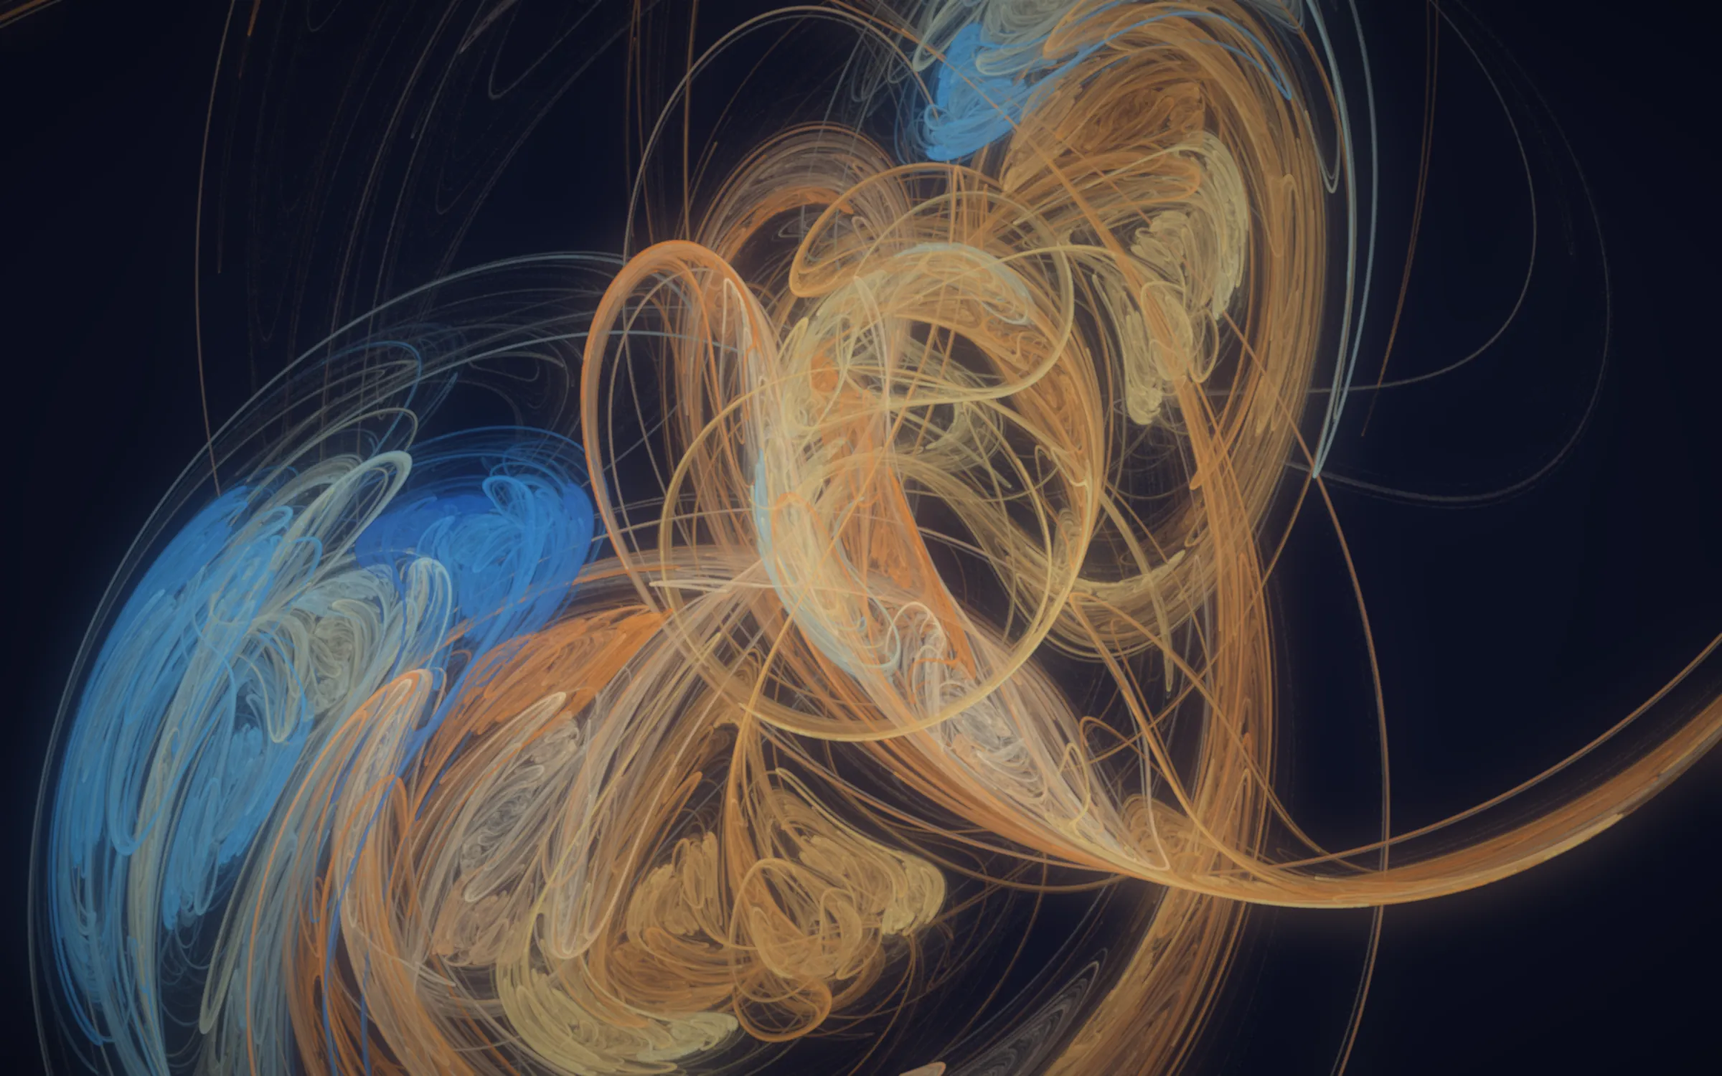
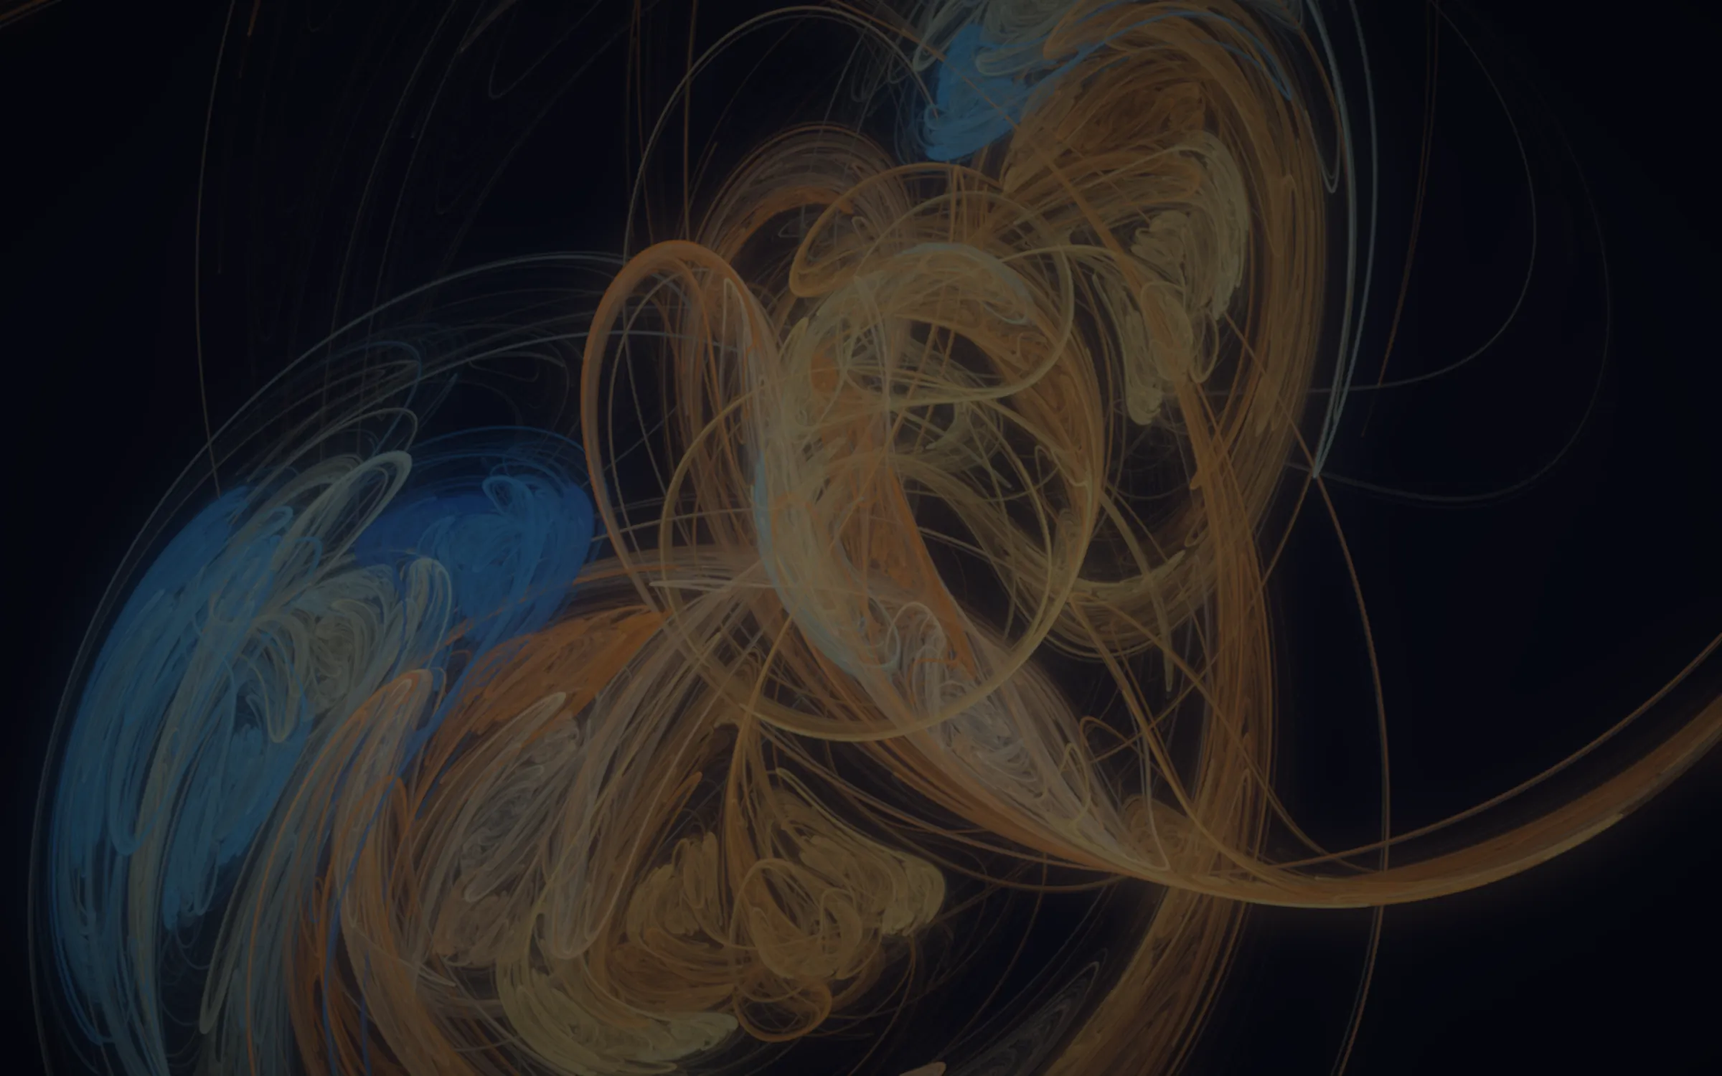
Random, moving fractal-flame backgrounds on the landing page
Each visit now gets one of the three fractal-flame backgrounds at random
(picked on the server, so there's no flash of another), set in motion:
the flame slowly drifts, turning and zooming a little; a blurred glow
copy turns the other way and pulses, screen-blended so the veils seem to
shimmer; and twinkling motes in the flame's colours orbit the middle
(flame-motes.tsx, a small canvas). All of it holds still under
prefers-reduced-motion. The dimming is baked into the images rather
than done with a CSS filter on a moving layer.

?bg=veil|ember|vortex picks one; ?bg=golden shows the golden-hour sky.

Claude-Session: https://claude.ai/code/session_01HnMuoqqgMQ5BoHpMVWgNZQ

diff --git a/src/app/page.tsx b/src/app/page.tsx
@@ -3,6 +3,7 @@ import { createClient } from "@/lib/supabase/server";
 import { AppButtons } from "./app-links";
 import { buildExampleShowcase } from "./example-flights";
 import { EngineCanvas } from "./engine-canvas";
+import { FlameMotes } from "./flame-motes";
 import { LandingShowcase } from "./landing-showcase";
 import styles from "./home.module.css";
 
@@ -24,24 +25,34 @@ const features = [
   },
 ];
 
-// Fractal-flame alternatives to the golden-hour sky, for previewing (see
-// .flameVeil and co. in home.module.css).
-const FLAME_BACKGROUNDS = {
-  veil: styles.flameVeil,
-  ember: styles.flameEmber,
-  vortex: styles.flameVortex,
+// The page's backgrounds: pre-rendered fractal flames (public/sky/flame-*),
+// one picked at random for each visit, set in motion by the classes and
+// motes below; or the golden-hour sky. ?bg=<name> picks one.
+const FLAMES = {
+  veil: { className: styles.flameVeil, motes: ["255,150,200", "150,190,255", "190,255,150"] },
+  ember: { className: styles.flameEmber, motes: ["255,190,110", "255,140,60", "120,190,255"] },
+  vortex: { className: styles.flameVortex, motes: ["110,240,210", "130,160,255", "150,255,170"] },
 };
+type FlameName = keyof typeof FLAMES;
+const FLAME_NAMES = Object.keys(FLAMES) as FlameName[];
+
+// A different flame on each visit: this page renders per request (it reads
+// the visitor's session), on the server, so the pick is made once per
+// page view and the browser gets the same one it was rendered with.
+function randomFlame(): FlameName {
+  return FLAME_NAMES[Math.floor(Math.random() * FLAME_NAMES.length)];
+}
 
 export default async function Home(props: PageProps<"/">) {
   // ?map=2d previews the example flights on a flat map instead of the globe.
   const { map, bg } = await props.searchParams;
   const flat = map === "2d";
-  // ?bg=veil|ember|vortex previews a fractal-flame background in place of
-  // the golden-hour sky.
-  const flameBackground =
-    typeof bg === "string" && Object.hasOwn(FLAME_BACKGROUNDS, bg)
-      ? FLAME_BACKGROUNDS[bg as keyof typeof FLAME_BACKGROUNDS]
-      : "";
+  const flame: FlameName | null =
+    bg === "golden"
+      ? null
+      : typeof bg === "string" && Object.hasOwn(FLAMES, bg)
+        ? (bg as FlameName)
+        : randomFlame();
   const { airports, initial } = buildExampleShowcase();
   const supabase = await createClient();
   const {
@@ -50,12 +61,25 @@ export default async function Home(props: PageProps<"/">) {
 
   return (
     <div
-      className={`${styles.page} ${styles.landing} ${flameBackground} flex flex-1 flex-col font-sans`}
+      className={`${styles.page} ${styles.landing} ${flame ? FLAMES[flame].className : ""} flex flex-1 flex-col font-sans`}
     >
-      {/* The golden-hour sky behind the whole page, and its light shafts
-          (pre-rendered; see .sky in home.module.css). */}
-      <div className={styles.sky} aria-hidden="true" />
-      <div className={styles.skyRays} aria-hidden="true" />
+      {flame ? (
+        // A fractal flame behind the whole page: the image slowly drifting,
+        // a soft glow copy of it turning the other way and pulsing, and
+        // twinkling motes orbiting its middle (see .flameSky).
+        <div className={styles.flameSky} aria-hidden="true">
+          <div className={styles.flameBase} />
+          <div className={styles.flameGlow} />
+          <FlameMotes colors={FLAMES[flame].motes} />
+        </div>
+      ) : (
+        <>
+          {/* The golden-hour sky, and its light shafts (pre-rendered; see
+              .sky in home.module.css). */}
+          <div className={styles.sky} aria-hidden="true" />
+          <div className={styles.skyRays} aria-hidden="true" />
+        </>
+      )}
       <main className={styles.hero}>
         <EngineCanvas />
 

diff --git a/src/app/flame-motes.tsx b/src/app/flame-motes.tsx
@@ -1,0 +1,97 @@
+"use client";
+
+import { useEffect, useRef } from "react";
+import styles from "./home.module.css";
+
+const MOTES = 90;
+// A full turn of the slowest orbit takes about this long, in seconds.
+const ORBIT_SECONDS = 260;
+
+// Glowing specks for the fractal-flame backgrounds: each slowly orbits the
+// middle of the page (the flame's own swirl) at its own pace and distance,
+// drifting in and out a little and twinkling, in the flame's colours.
+// Drawn additively on a canvas covering the page; paused when the tab is
+// hidden (requestAnimationFrame stops), and a single still frame under
+// prefers-reduced-motion.
+export function FlameMotes({ colors }: { colors: string[] }) {
+  const canvasRef = useRef<HTMLCanvasElement>(null);
+
+  useEffect(() => {
+    const canvas = canvasRef.current;
+    const ctx = canvas?.getContext("2d");
+    if (!canvas || !ctx) return;
+
+    let seed = 7;
+    const rnd = () => (seed = (seed * 16807) % 2147483647) / 2147483647;
+    const motes = Array.from({ length: MOTES }, () => ({
+      angle: rnd() * Math.PI * 2,
+      // Mostly out in the flame's arms, a few nearer the core.
+      dist: 0.12 + Math.pow(rnd(), 0.7) * 0.75,
+      speed: (0.4 + rnd() * 0.8) * (rnd() < 0.2 ? -1 : 1),
+      wobble: rnd() * Math.PI * 2,
+      size: 0.6 + Math.pow(rnd(), 3) * 2.4,
+      twinkle: 0.4 + rnd() * 1.2,
+      phase: rnd() * Math.PI * 2,
+      color: colors[Math.floor(rnd() * colors.length)],
+    }));
+
+    const draw = (t: number) => {
+      ctx.clearRect(0, 0, W, H);
+      ctx.globalCompositeOperation = "lighter";
+      const cx = W / 2;
+      const cy = H / 2;
+      const reach = Math.hypot(W, H) / 2;
+      for (const m of motes) {
+        const a = m.angle + (m.speed * t * Math.PI * 2) / ORBIT_SECONDS;
+        const d = reach * (m.dist + 0.03 * Math.sin(t * 0.21 + m.wobble));
+        const x = cx + Math.cos(a) * d;
+        // Squashed a little, like a swirl seen at an angle.
+        const y = cy + Math.sin(a) * d * 0.7;
+        if (x < -10 || x > W + 10 || y < -10 || y > H + 10) continue;
+        const glow = 0.25 + 0.75 * Math.pow(0.5 + 0.5 * Math.sin(t * m.twinkle + m.phase), 3);
+        const r = m.size * 4;
+        const g = ctx.createRadialGradient(x, y, 0, x, y, r);
+        g.addColorStop(0, `rgba(${m.color},${(0.9 * glow).toFixed(3)})`);
+        g.addColorStop(0.25, `rgba(${m.color},${(0.35 * glow).toFixed(3)})`);
+        g.addColorStop(1, `rgba(${m.color},0)`);
+        ctx.fillStyle = g;
+        ctx.beginPath();
+        ctx.arc(x, y, r, 0, Math.PI * 2);
+        ctx.fill();
+      }
+    };
+
+    const still = window.matchMedia("(prefers-reduced-motion: reduce)").matches;
+    let W = 0;
+    let H = 0;
+    const resize = () => {
+      const dpr = Math.min(2, window.devicePixelRatio || 1);
+      W = canvas.clientWidth;
+      H = canvas.clientHeight;
+      canvas.width = Math.round(W * dpr);
+      canvas.height = Math.round(H * dpr);
+      ctx.setTransform(dpr, 0, 0, dpr, 0, 0);
+      // Resizing clears the canvas; a still frame needs redrawing.
+      if (still) draw(0);
+    };
+
+    resize();
+    const observer = new ResizeObserver(resize);
+    observer.observe(canvas);
+    let frame = 0;
+    if (!still) {
+      const start = performance.now();
+      const tick = (now: number) => {
+        draw((now - start) / 1000);
+        frame = requestAnimationFrame(tick);
+      };
+      frame = requestAnimationFrame(tick);
+    }
+    return () => {
+      cancelAnimationFrame(frame);
+      observer.disconnect();
+    };
+  }, [colors]);
+
+  return <canvas ref={canvasRef} className={styles.flameMotes} aria-hidden="true" />;
+}

diff --git a/src/app/home.module.css b/src/app/home.module.css
@@ -95,43 +95,92 @@
   }
 }
 
-/* Fractal-flame alternatives to the sky, previewed with ?bg= on the landing
-   page: each a pre-rendered flame (drawn with a fractal flame renderer, the
-   chaos-game algorithm behind Apophysis-style art) on a dark ground, over a
-   base colour matching that ground. The light shafts belong to the sky, so
-   they go. */
+/* The fractal-flame backgrounds (one picked at random per visit; see
+   FLAMES in page.tsx): each a pre-rendered flame (drawn with a fractal
+   flame renderer, the chaos-game algorithm behind Apophysis-style art),
+   dimmed so the engine and text stay the stars, over a base colour
+   matching its dark ground. Set in motion by three layers: the image
+   itself slowly drifting (turning and zooming a little, oversized so its
+   edges never show), a blurred glow copy turning the other way and
+   pulsing, screen-blended so the veils seem to shimmer, and twinkling
+   motes orbiting the middle (flame-motes.tsx). */
 .flameVeil {
   background: #1e1624;
+  --flame: url("/sky/flame-veil.webp");
+  --flame-glow: url("/sky/flame-veil-glow.webp");
 }
 .flameEmber {
   background: #0e1226;
+  --flame: url("/sky/flame-ember.webp");
+  --flame-glow: url("/sky/flame-ember-glow.webp");
 }
 .flameVortex {
   background: #080a18;
+  --flame: url("/sky/flame-vortex.webp");
+  --flame-glow: url("/sky/flame-vortex-glow.webp");
 }
-.flameVeil .sky,
-.flameEmber .sky,
-.flameVortex .sky {
+.flameSky {
+  position: absolute;
+  inset: 0;
+  z-index: -1;
+  overflow: hidden;
+  pointer-events: none;
+}
+.flameBase,
+.flameGlow {
+  position: absolute;
+  inset: -12%;
   background-size: cover;
   background-position: center;
+  will-change: transform;
 }
-/* Each dimmed to taste, so the gold engine and the text stay the stars. */
-.flameVeil .sky {
-  background-image: url("/sky/flame-veil.webp");
-  filter: brightness(0.72);
+.flameBase {
+  background-image: var(--flame);
+  animation: flameDrift 48s ease-in-out infinite alternate;
 }
-.flameEmber .sky {
-  background-image: url("/sky/flame-ember.webp");
-  filter: brightness(0.5);
+.flameGlow {
+  background-image: var(--flame-glow);
+  mix-blend-mode: screen;
+  opacity: 0.2;
+  animation:
+    flameGlowTurn 37s ease-in-out infinite alternate,
+    flameGlowPulse 9s ease-in-out infinite alternate;
 }
-.flameVortex .sky {
-  background-image: url("/sky/flame-vortex.webp");
-  filter: brightness(0.66);
+.flameMotes {
+  position: absolute;
+  inset: 0;
+  width: 100%;
+  height: 100%;
 }
-.flameVeil .skyRays,
-.flameEmber .skyRays,
-.flameVortex .skyRays {
-  display: none;
+@keyframes flameDrift {
+  from {
+    transform: rotate(-4deg) scale(1.02);
+  }
+  to {
+    transform: rotate(4deg) scale(1.1);
+  }
+}
+@keyframes flameGlowTurn {
+  from {
+    transform: rotate(6deg) scale(1.1);
+  }
+  to {
+    transform: rotate(-6deg) scale(1.02);
+  }
+}
+@keyframes flameGlowPulse {
+  from {
+    opacity: 0.08;
+  }
+  to {
+    opacity: 0.38;
+  }
+}
+@media (prefers-reduced-motion: reduce) {
+  .flameBase,
+  .flameGlow {
+    animation: none;
+  }
 }
 
 /* Soft shadows keep the hero's text readable where it crosses the sun's

diff --git a/README.md b/README.md
@@ -44,7 +44,7 @@ Free-tier Supabase projects are paused after a period of inactivity. While pause
 
 ## Features
 
-- A landing page (`/`) with a golden-hour sky — a low sun just off the top-left corner, sun-lit cumulus and slowly breathing light shafts — and an animated gold wireframe turbofan that draws itself in, ring by ring from the intake back, grows its fan, spools up and flies nearly level, facing right, with its exhaust streaming off to the left (canvas 2D, `engine-fx.ts`; shown as a still under `prefers-reduced-motion`). The engine is the hero's centrepiece, in the middle of the first screen, with the heading and the example-flight card to its left and the globe to its right (stacked on phones). Under the heading are **Flight Log**, **Flight Map** and **Flight Plan** buttons (`app-links.tsx`): greyed out behind a lock with a "Sign in to use these" hint for visitors, working links once signed in (when the Sign in button also goes). The same three links replace the header's single Flights link when signed in. Flight Map and Flight Log share the flights page (the globe at the top, the list of logged flights below it at `/flights#log`); Flight Plan is its own page, `/plan`. To the engine's right is a live example globe (add `?map=2d` to the landing or flights page URL to preview it as a flat 2D map instead). Adding `?bg=veil`, `?bg=ember` or `?bg=vortex` to the landing page URL previews a fractal-flame background (`public/sky/flame-*.webp`, pre-rendered with a fractal flame renderer) in place of the golden-hour sky using the same `FlightGlobe` component as the flights page. The globe tours an endless stream of generated example flights: every 7 seconds it generates a new one and flies onto it, keeping the last six drawn. They're built from a table of real airlines on routes they're known for, with aircraft types they typically fly there, plus a few private/GA hops (`src/lib/example-flights/routes.ts`); the generator (`src/lib/example-flights/generate.ts`) randomizes direction, aircraft, date (anywhere from the visitor's own today back ~18 months — dated in their browser, since the page itself is prerendered) and notes (two sentences from different phases of flight, drawn from a pool of templates in `notes.ts` that avoids phrasings already on screen and airline-only details on private flights), and estimates flight time from the real great-circle distance and the aircraft's cruise speed. Airport coordinates come from the bundled OurAirports lookup, and routes crossing the antimeridian are skipped. A summary card (the same one as the flights page, minus thumbnail and close) shows its route, distance, flight time, date, aircraft, airline and notes. The tour can be paused. The globe is always shown whole, never zoomed or tilted in past its own edges: it just turns to face each flight. The landing globe is display-only (`FlightGlobe`'s `interactive={false}`: MapLibre's handlers off and `pointer-events: none`), so it can't be dragged, zoomed or clicked, and scrolling over it scrolls the page; the tour alone drives it. The flights page's globe stays fully interactive. On a PC everything, the feature blurbs included (in a compact row under the engine and globe), fits in one screenful with no scrolling; the engine shrinks on shorter screens to make room. It all sits on one continuous sky. The sky is pre-rendered into two images in `public/sky/` (the sky itself, and the light shafts, screen-blended on top) rather than generated in the browser, which would cost a noticeable pause on slower devices; on portrait screens it's shown across the top at close to its designed scale and fades into a matching base colour, rather than zooming into the sun. It's a deliberately single theme rather than adapting to light/dark preference.
+- A landing page (`/`) with a moving fractal-flame background, one of three picked at random on each visit (rose and blue veils, orange and blue embers, or a blue and teal vortex): pre-rendered flames (`public/sky/flame-*.webp`, drawn with a fractal flame renderer) that slowly drift and turn, under a pulsing glow layer turning the other way and twinkling motes orbiting the middle (`flame-motes.tsx`); all still under `prefers-reduced-motion`. `?bg=veil`, `?bg=ember` or `?bg=vortex` picks one, and `?bg=golden` shows the earlier golden-hour sky — a low sun just off the top-left corner, sun-lit cumulus and slowly breathing light shafts — and an animated gold wireframe turbofan that draws itself in, ring by ring from the intake back, grows its fan, spools up and flies nearly level, facing right, with its exhaust streaming off to the left (canvas 2D, `engine-fx.ts`; shown as a still under `prefers-reduced-motion`). The engine is the hero's centrepiece, in the middle of the first screen, with the heading and the example-flight card to its left and the globe to its right (stacked on phones). Under the heading are **Flight Log**, **Flight Map** and **Flight Plan** buttons (`app-links.tsx`): greyed out behind a lock with a "Sign in to use these" hint for visitors, working links once signed in (when the Sign in button also goes). The same three links replace the header's single Flights link when signed in. Flight Map and Flight Log share the flights page (the globe at the top, the list of logged flights below it at `/flights#log`); Flight Plan is its own page, `/plan`. To the engine's right is a live example globe (add `?map=2d` to the landing or flights page URL to preview it as a flat 2D map instead) using the same `FlightGlobe` component as the flights page. The globe tours an endless stream of generated example flights: every 7 seconds it generates a new one and flies onto it, keeping the last six drawn. They're built from a table of real airlines on routes they're known for, with aircraft types they typically fly there, plus a few private/GA hops (`src/lib/example-flights/routes.ts`); the generator (`src/lib/example-flights/generate.ts`) randomizes direction, aircraft, date (anywhere from the visitor's own today back ~18 months — dated in their browser, since the page itself is prerendered) and notes (two sentences from different phases of flight, drawn from a pool of templates in `notes.ts` that avoids phrasings already on screen and airline-only details on private flights), and estimates flight time from the real great-circle distance and the aircraft's cruise speed. Airport coordinates come from the bundled OurAirports lookup, and routes crossing the antimeridian are skipped. A summary card (the same one as the flights page, minus thumbnail and close) shows its route, distance, flight time, date, aircraft, airline and notes. The tour can be paused. The globe is always shown whole, never zoomed or tilted in past its own edges: it just turns to face each flight. The landing globe is display-only (`FlightGlobe`'s `interactive={false}`: MapLibre's handlers off and `pointer-events: none`), so it can't be dragged, zoomed or clicked, and scrolling over it scrolls the page; the tour alone drives it. The flights page's globe stays fully interactive. On a PC everything, the feature blurbs included (in a compact row under the engine and globe), fits in one screenful with no scrolling; the engine shrinks on shorter screens to make room. It all sits on one continuous sky. The sky is pre-rendered into two images in `public/sky/` (the sky itself, and the light shafts, screen-blended on top) rather than generated in the browser, which would cost a noticeable pause on slower devices; on portrait screens it's shown across the top at close to its designed scale and fades into a matching base colour, rather than zooming into the sun. It's a deliberately single theme rather than adapting to light/dark preference.
 - Email/password sign-up and sign-in via Supabase Auth (`/login`)
 - A protected `/flights` page for logging and reviewing your flights (date, airline, aircraft, route, hours, notes), backed by a `flights` table scoped to each user via row-level security
 - A rotatable, self-rotating 3D globe on the flights page — the same frameless, circular globe as the landing page, on the same dark ground (bare mode leaves the land transparent so that ground shows through) — rendered with [MapLibre GL JS](https://maplibre.org/maplibre-gl-js/docs/) over free, no-API-key [OpenStreetMap](https://www.openstreetmap.org/copyright) vector tiles from [OpenFreeMap](https://openfreemap.org/) (swap `STYLE_URL` in `flight-globe.tsx` for a MapTiler/Mapbox satellite style if you have a key). Idle at the overview zoom, it spins slowly on its own (nudging the center longitude every frame, not the bearing, so it reads as the Earth turning rather than the camera orbiting) — paused for the duration of any drag/rotate/pitch gesture or programmatic camera move, and skipped entirely under `prefers-reduced-motion`. Flight routes are drawn with [deck.gl](https://deck.gl/)'s `ArcLayer`, composited into the MapLibre render pass via `@deck.gl/mapbox`'s `MapboxOverlay` (`interleaved: true`), styled as glowing arcs in one flat color end to end (a wide, low-opacity layer under a thin, bright one approximates the glow, since deck.gl has no native bloom) — airports have no visible marker (a flat disc on the globe's surface z-fights with it and flickers), but a fully transparent `ScatterplotLayer` keeps them clickable, since deck.gl picks by its own picking colors rather than fill alpha. The selected route is drawn as its own pair of layers with constant colors/widths rather than per-arc accessor functions — deck.gl only re-runs accessor functions when the data or an `updateTriggers` entry changes, so a function would keep drawing the old color/selection. Clicking a route highlights it on the globe (with its two airports' city/code labels), highlights the matching entry in the flight log below, and vice versa, and flies the camera in on the two airports with a 55° pitch; deselecting eases back out to the full overview. Clicking an individual airport marker flies in further still (zoom 15, 60° pitch) — close enough for MapLibre's native 3D buildings to render, showing that airport's actual OpenStreetMap building footprints in 3D rather than a generic marker. Airport coordinates come from a bundled ICAO/IATA lookup, derived from [OurAirports](https://ourairports.com/data/) (public domain) — no coordinates to enter manually. On the flights page, a color swatch above the globe lets you pick the color used for every route in place of the default cyan, applied immediately without moving the camera. Selecting a flight (on the globe or in the log) pulses its route's glow while the camera flies in, and animates a details card into the globe band: a thumbnail, the route's city names, great-circle distance (haversine, in nm and km), logged flight time, date, aircraft, airline and the flight's notes — the numbers count up from zero. An always-visible **Add/Change thumbnail** button on the card opens a picker to choose one of the flight's uploaded images or upload a new one; the choice is stored as its own copy at `{user id}/thumbnails/{flight id}/…` in the `flight-media` bucket (already covered by its per-user storage policies, so no schema change), replacing the previous one. Without a chosen thumbnail the card falls back to the flight's first uploaded image, then to a drawn route graphic. All of it is skipped under `prefers-reduced-motion` — remembered in `localStorage`, so it's per-browser rather than synced to your account.
